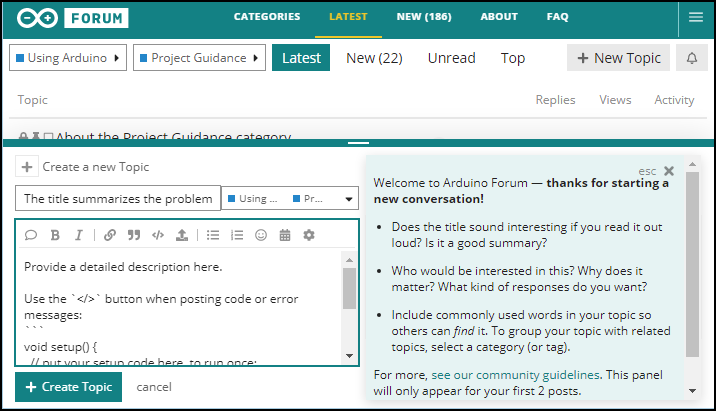
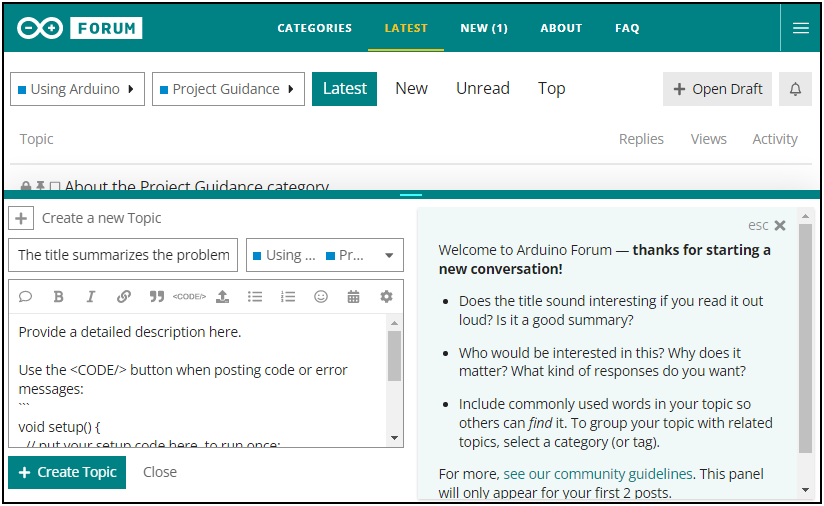
Update "code tags" button in asset posts
The post composer toolbar button that adds inline and block preformatted/code markup to posts has been changed from a
"</>" design to "<CODE/>".

Changed region(s): [[0.0, 0.0, 1.0, 1.0]]

diff --git a/content/categories/using-arduino/installation-troubleshooting/_topics/how-to-get-the-best-out-of-this-forum/1.md b/content/categories/using-arduino/installation-troubleshooting/_topics/how-to-get-the-best-out-of-this-forum/1.md
@@ -36,13 +36,13 @@ If you are using something that is a non-Arduino product then it helps to have a
 
 ### [Code problems](#code-problems)
 
-We can only find problems in code we can see. Please supply your complete code in code tags **`</>`** [More about posting code and using code tags](#posting-code). If you are using Arduino Create then you can post a link to your project (but keep in mind that not everyone uses Arduino Create).
+We can only find problems in code we can see. Please supply your complete code in code tags **`<CODE/>`** [More about posting code and using code tags](#posting-code). If you are using Arduino Create then you can post a link to your project (but keep in mind that not everyone uses Arduino Create).
 
 Posting a snippet of code is generally useless. The problem is usually in another part of the program.
 
 Before posting code, please use Tools / Auto Format at the top of the IDE. It makes the code much easier to read and you will probably find it very helpful yourself. Once you've done that, use Edit / Copy for Forum.
 
-Always use code tags (**`</>`**) when posting code or compiler error messages.
+Always use code tags (**`<CODE/>`**) when posting code or compiler error messages.
 Using code tags makes the code easier to read and easy to copy. Not using code tags means some of the code gets displayed with smiley faces and other stuff that should not be there. Be aware that there is a limit of 120000 characters for a post. If your code takes you above this limit then you can add your .ino file as an attachment. However, it will be much easier to help you if you can write a short program that illustrates the problem you are having and post that.
 
 Please don't post an image of code instead of the code itself, or an image of error messages instead of the error messages themselves.
@@ -139,9 +139,9 @@ Once you have found the right category you can start your post. Click on New Top
 
 Enter a title and a description of your problem:
 
-![Compose post|690x396](https://europe1.discourse-cdn.com/arduino/original/4X/e/8/2/e82dd9261ba78475d4ed9ec9c1a2d430674da54d.png)
+![Compose post|690x423, 70%](https://europe1.discourse-cdn.com/arduino/original/4X/2/4/6/2466d0d65f4dd963493f50ac0aee9f07066dc44b.png)
 
-Don't forget to include code in code tags **`</>`** and a schematic of your circuit.
+Don't forget to include code in code tags **`<CODE/>`** and a schematic of your circuit.
 
 For your first two posts, the right hand side of the post composer pane will show a welcome message. Once you have closed that message, you will see a preview of how your post will look once you have submitted it.
 
@@ -151,7 +151,7 @@ For your first two posts, the right hand side of the post composer pane will sho
 
 When you are happy with your post click on + Create Topic to post it.
 
-![Create topic|482x500](https://europe1.discourse-cdn.com/arduino/original/4X/3/8/8/3888dbaf5834c68321792a21d9493b24e9ff8165.png)
+![Create topic|403x500, 75%](https://europe1.discourse-cdn.com/arduino/original/4X/9/8/7/9870b27af83959c9d5b08f479a9d89fdeed78b1b.png)
 
 That's your first post completed.
 
@@ -176,7 +176,7 @@ Before copying your code for the forum, look in Tools on the menu bar of the Ard
 
 ### [Use code tags](#use-code-tags)
 
-Code should be be in code tags, these are the **`</>`** in the tool bar above where you edit your post, and correctly formatted, like this:
+Code should be be in code tags, these are the **`<CODE/>`** in the tool bar above where you edit your post, and correctly formatted, like this:
 
 ```
 char message[][4] = { "hi", "bye" };
@@ -220,7 +220,7 @@ void loop() {
 
 There's more than one way to add code tags, you can:
 
-- Paste your code in the box where you are editing your post, select all the code and click on **`</>`**.
+- Paste your code in the box where you are editing your post, select all the code and click on **`<CODE/>`**.
 - In the Arduino IDE under the 'Edit' menu there is 'Copy for Forum', this puts your code on the clipboard with code tags added ready to paste into your question.
 
 <a name="minimal-reproducible-example"></a>

diff --git a/content/categories/templates/_topics/code-tags-usage/1.md b/content/categories/templates/_topics/code-tags-usage/1.md
@@ -1,4 +1,4 @@
-Thank you for posting your code but I am sure you can see that the formatting is a mess. The forum has something called 'code tags', which sort out the problems with the formatting. If you edit your code to include the code tags </>, the code will be easier to read and you will be more likely to get help.
+Thank you for posting your code but I am sure you can see that the formatting is a mess. The forum has something called 'code tags', which sort out the problems with the formatting. If you edit your code to include the code tags \<CODE/\>, the code will be easier to read and you will be more likely to get help.
 
 If you are unsure what to do please follow the advice given in the link below when posting code, there are instructions for using code tags, along with lots of other advice to help us to help you.
 https://forum.arduino.cc/t/how-to-get-the-best-out-of-this-forum/679966#posting-code

diff --git a/content/categories/templates/_topics/general-user-advice/1.md b/content/categories/templates/_topics/general-user-advice/1.md
@@ -6,7 +6,7 @@ It will help you get the best out of the forum in the future.
 - Always list the version of the IDE you are using and the board version if applicable.
 - Use quote or add error messages as an attachment NOT a picture.
 - How to [insert an image](https://forum.arduino.cc/t/a-thread-with-tips-and-tricks-for-the-new-discourse-based-arduino-forum/849827/3) into your post. ( Thanks @sterretje )
-- Add your sketch where applicable but please use CODE TAGS ( **</>** )
+- Add your sketch where applicable but please use CODE TAGS ( **\<CODE/\>** )
 - Add a SCHEMATIC were needed even if it is hand drawn
 - Add working links to any specific hardware as needed (**NOT** links to similar items)
 - Remember that the people trying to help cannot see your problem so give as much information as you can
